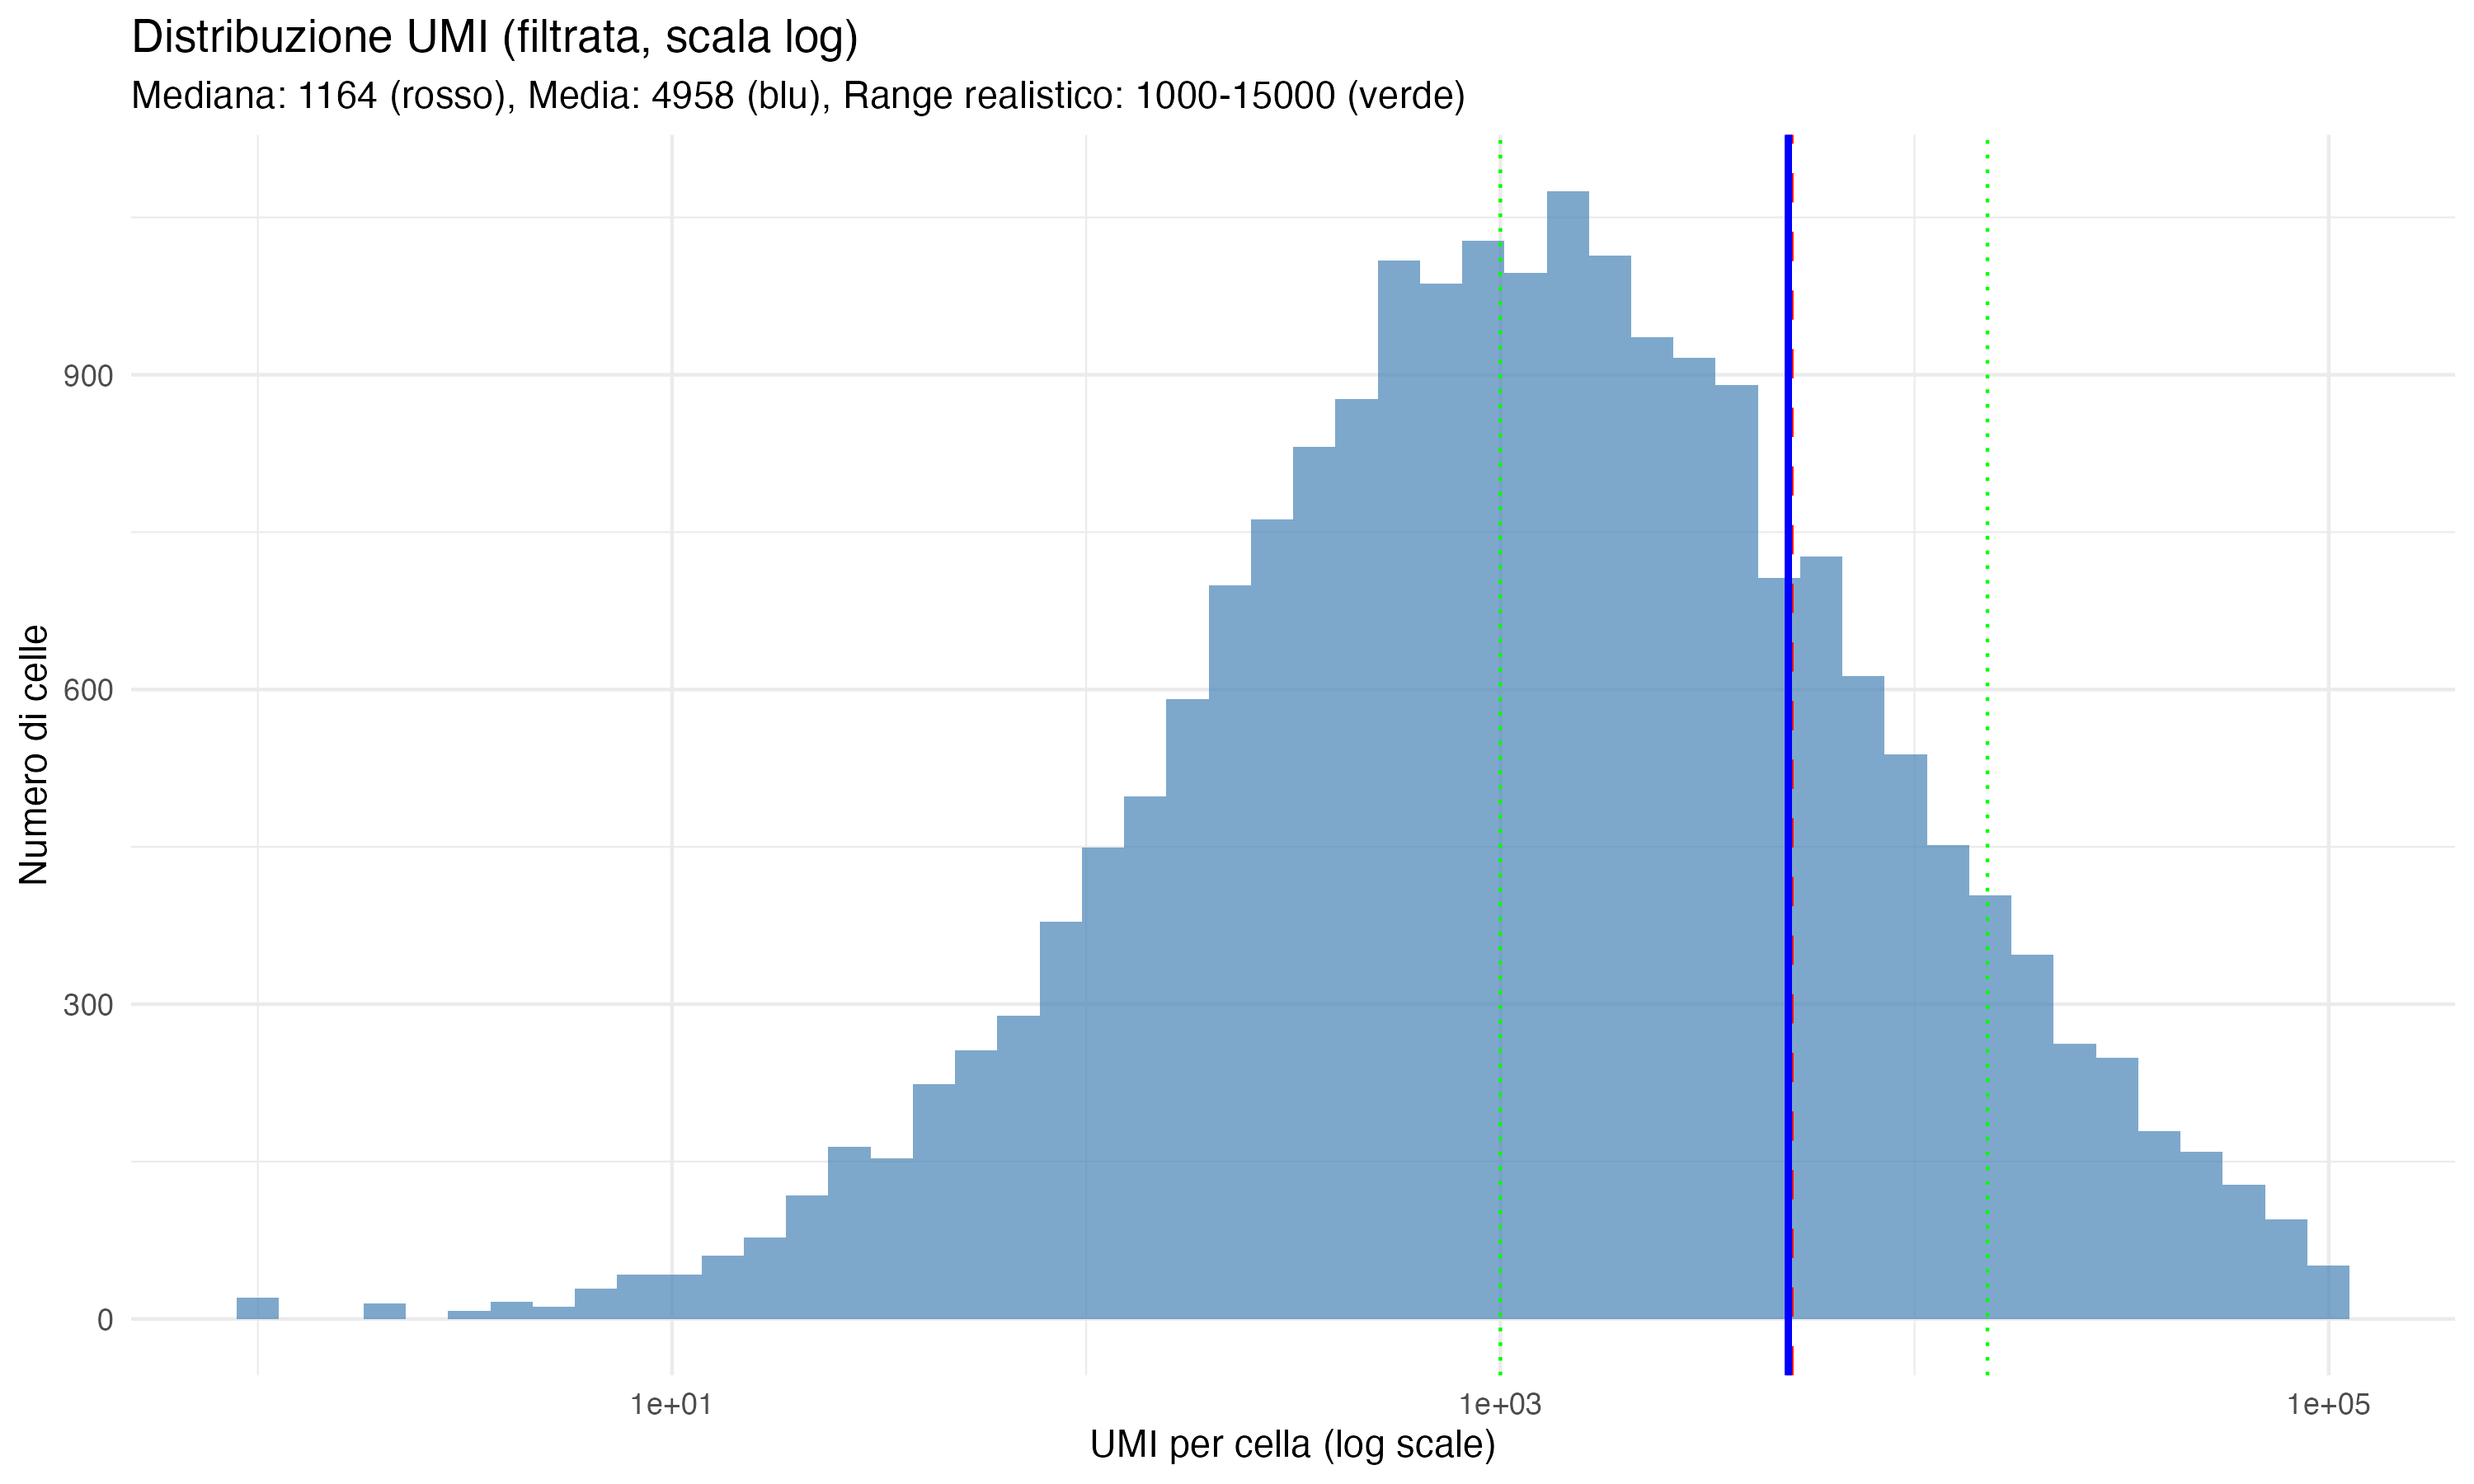
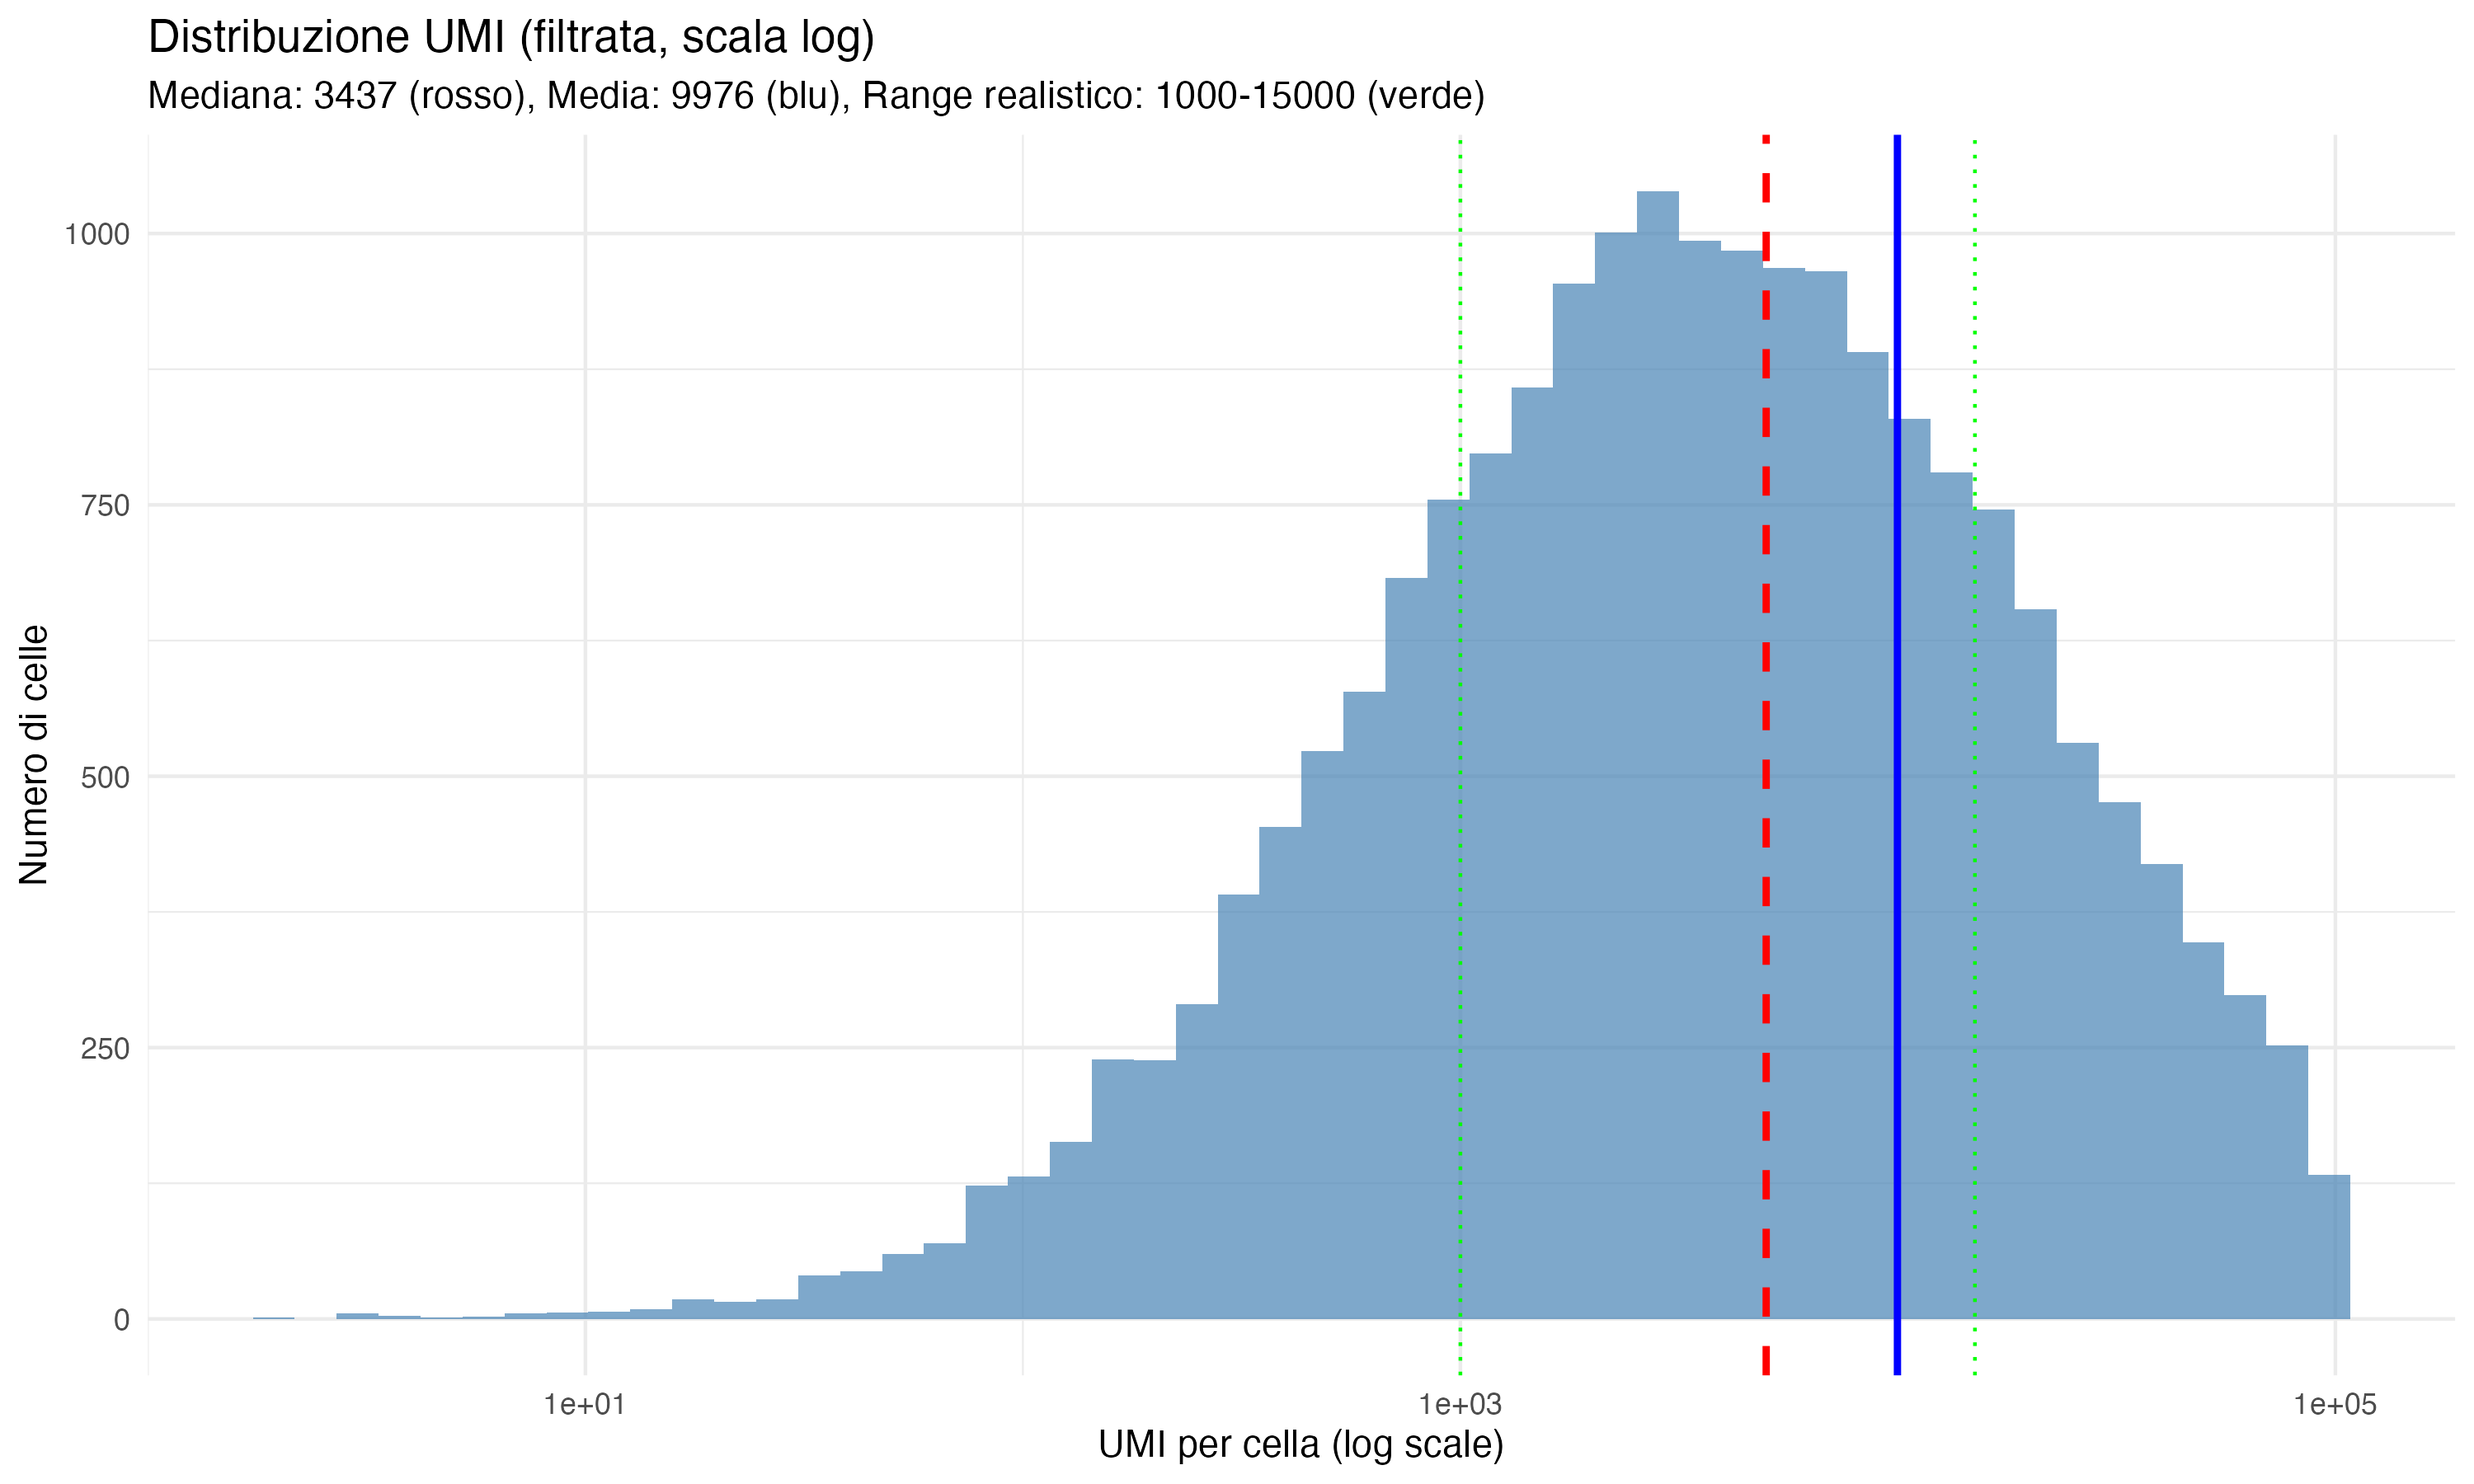
Fix cell-level UMI cap implementation in biological validation
- Improve validate_biological_plausibility to properly scale cells >50k UMI
- Add explicit iteration over non-zero values for correct sparse matrix handling
- Add verification step to check cap was applied successfully
- Include cell count statistics in validation report
- Add test_cell_cap.R to verify functionality

The previous implementation wasn't correctly scaling dgCMatrix columns.
This fix ensures cells with extreme UMI counts (up to millions) are
properly scaled down to the 50k biological limit.

🤖 Generated with [Claude Code](https://claude.ai/code)

diff --git a/plots/biological_validation/biological_validation_report.md b/plots/biological_validation/biological_validation_report.md
@@ -1,0 +1,37 @@
+# REPORT DI VALIDAZIONE BIOLOGICA
+Data: 2025-05-29
+File simulazione: simple_simulation.rds
+
+## SOMMARIO ESECUTIVO
+
+- Range UMI: ✗ NON REALISTICO (media: 22952, mediana: 7512)
+
+- Espressione massima: ✗ NON REALISTICO (max: 90085)
+
+- Mediana espressione: ✗ NON REALISTICO (mediana: 0.27)
+
+- Percentuale celle con UMI realistici: 64.2%
+
+## DETTAGLI VALIDAZIONE
+
+### Range di Espressione
+- UMI totali per cella: 710 - 772652
+- Numero geni altamente espressi (>1000): 1267
+
+### Coerenza Spaziale
+- Cluster analizzati: 10
+
+### Specificità Marker
+- Analisi marker non disponibile
+
+## RACCOMANDAZIONI
+
+- AZIONE: Regolare i parametri di library size per ottenere UMI più realistici
+
+- AZIONE: Limitare l'espressione massima dei geni più espressi
+
+## CONCLUSIONI
+
+La simulazione produce dati con caratteristiche 
+che richiedono aggiustamenti per migliorare il realismo biologico.
+

diff --git a/plots/biological_validation_improved/visiumHD_improved_report.md b/plots/biological_validation_improved/visiumHD_improved_report.md
@@ -1,0 +1,37 @@
+# REPORT DI VALIDAZIONE BIOLOGICA
+Data: 2025-05-29
+File simulazione: visiumHD_biological.rds
+
+## SOMMARIO ESECUTIVO
+
+- Range UMI: ✗ NON REALISTICO (media: 25551, mediana: 3808)
+
+- Espressione massima: ✓ REALISTICO (max: 5000)
+
+- Mediana espressione: ✗ NON REALISTICO (mediana: 0.91)
+
+- Percentuale celle con UMI realistici: 54.4%
+
+## DETTAGLI VALIDAZIONE
+
+### Range di Espressione
+- UMI totali per cella: 2 - 5979704
+- Numero geni altamente espressi (>1000): 14560
+
+### Coerenza Spaziale
+- Cluster analizzati: 10
+
+### Specificità Marker
+- Cluster con marker identificati: 10
+
+## RACCOMANDAZIONI
+
+- AZIONE: Regolare i parametri di library size per ottenere UMI più realistici
+
+- Livelli di espressione massima appropriati
+
+## CONCLUSIONI
+
+La simulazione produce dati con caratteristiche 
+che richiedono aggiustamenti per migliorare il realismo biologico.
+
